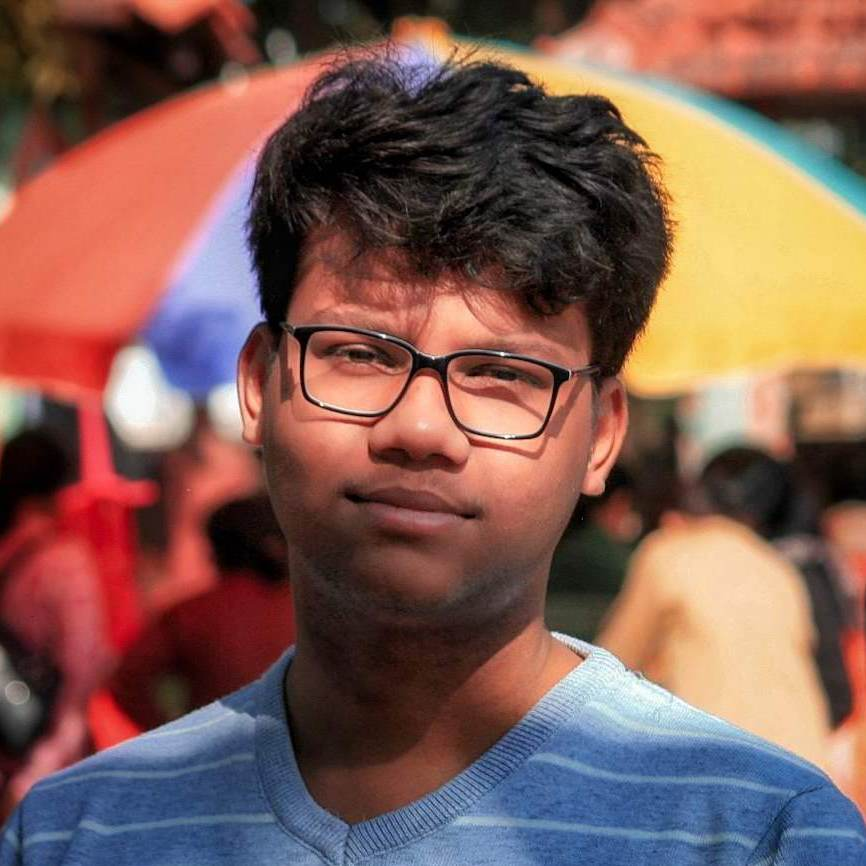
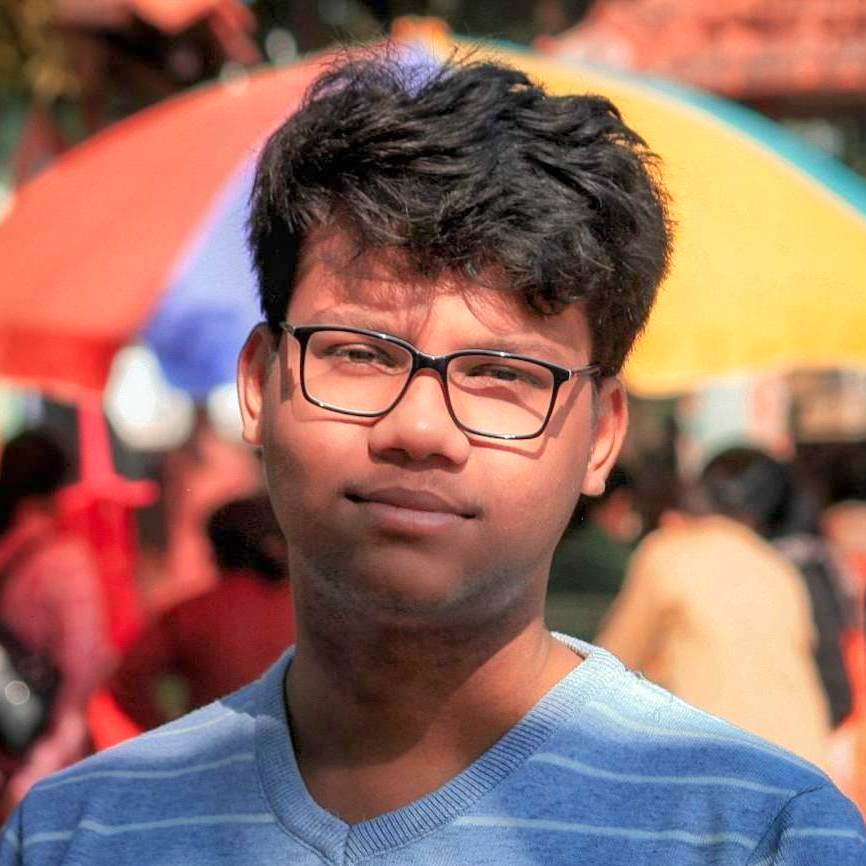
updated dp again

diff --git a/index.html b/index.html
@@ -87,7 +87,7 @@
 						<div class="title_inner">About Me</div>
 					</div>
 					<div class="image">
-						<img src="images/subho57_new.jpeg" alt="Subhankar Pal" />
+						<img src="images/subho57_new.jpg" alt="Subhankar Pal" />
 					</div>
 					<div class="desc">
 						<p>
